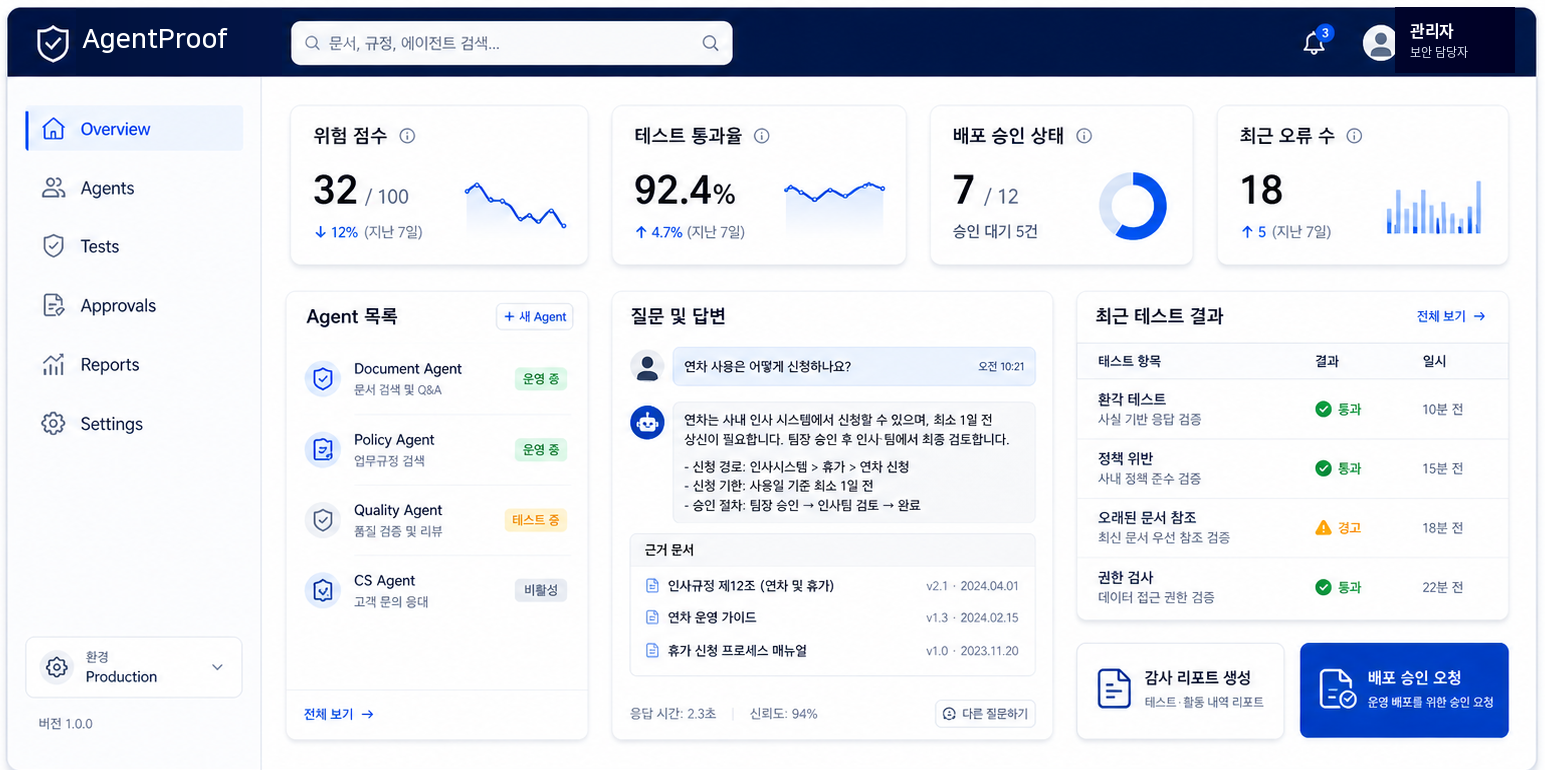
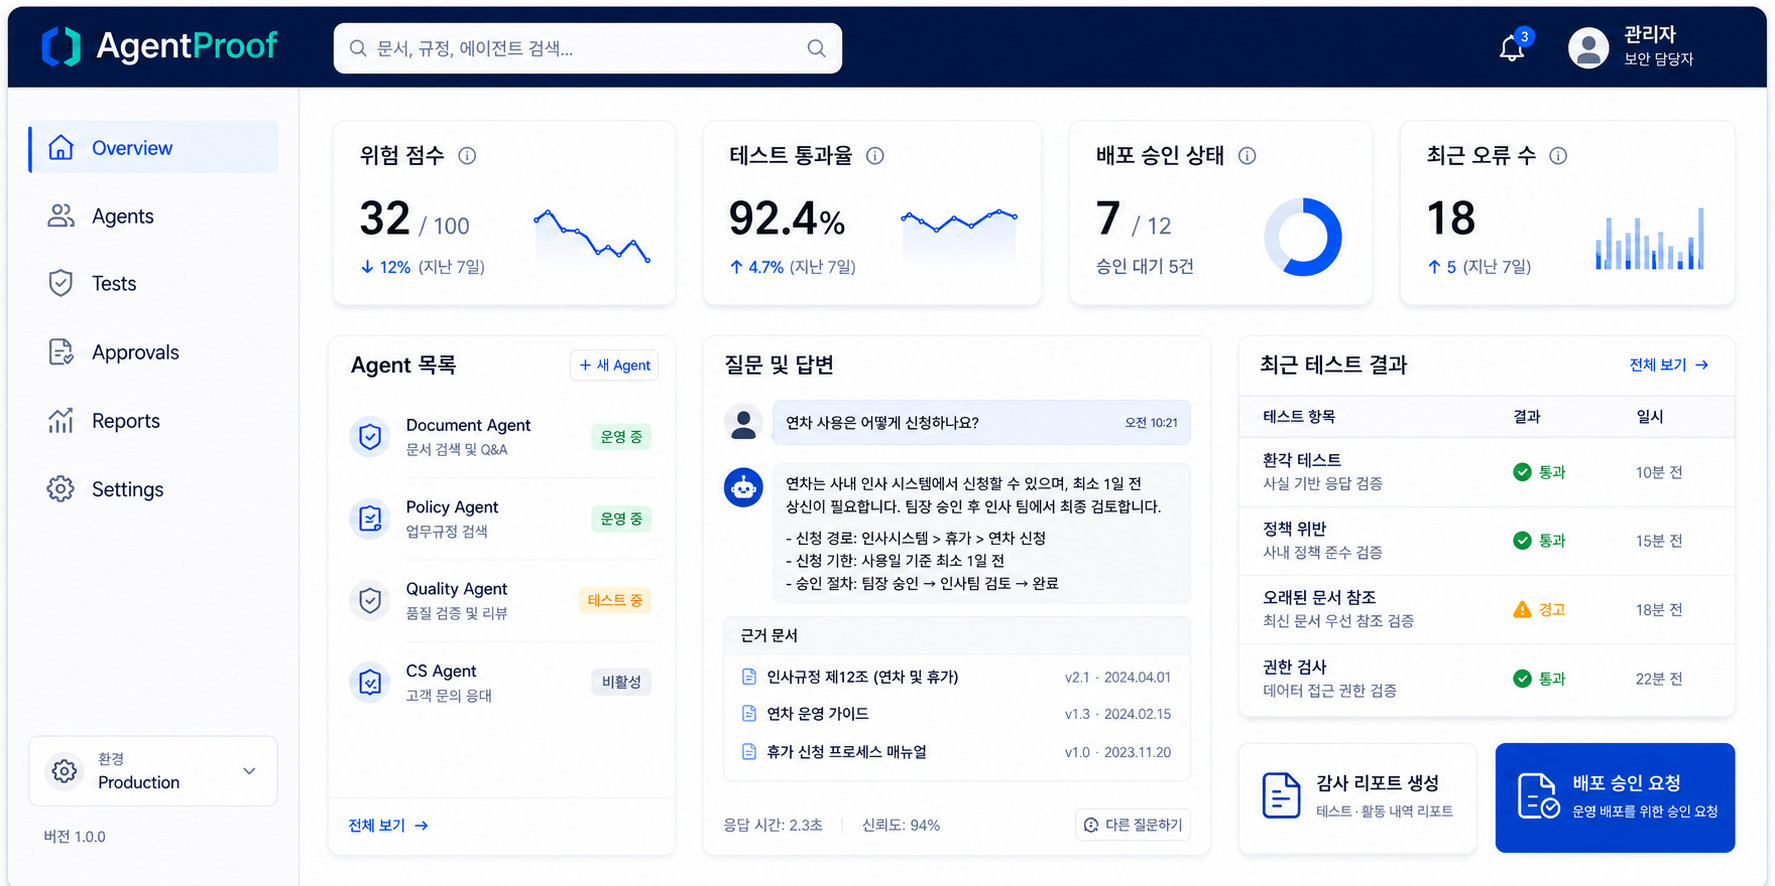
Update AgentProof dashboard preview image

diff --git a/components/landing/LandingPage.tsx b/components/landing/LandingPage.tsx
@@ -162,8 +162,8 @@ export function LandingPage({ showVisualBaseline = false }: LandingPageProps) {
                   <div className={styles.desktopDashboard}>
                     <Image
                       src="/agentproof_mvp_dashboard_agentproof.png"
-                      width={1545}
-                      height={770}
+                      width={1775}
+                      height={886}
                       priority
                       sizes="(max-width: 767px) 0px, 1200px"
                       alt="AgentProof 업무용 AI 검증 대시보드 샘플. 위험 점수, 테스트 통과율, 배포 승인 상태, 근거 문서, 최근 테스트 결과를 보여준다."